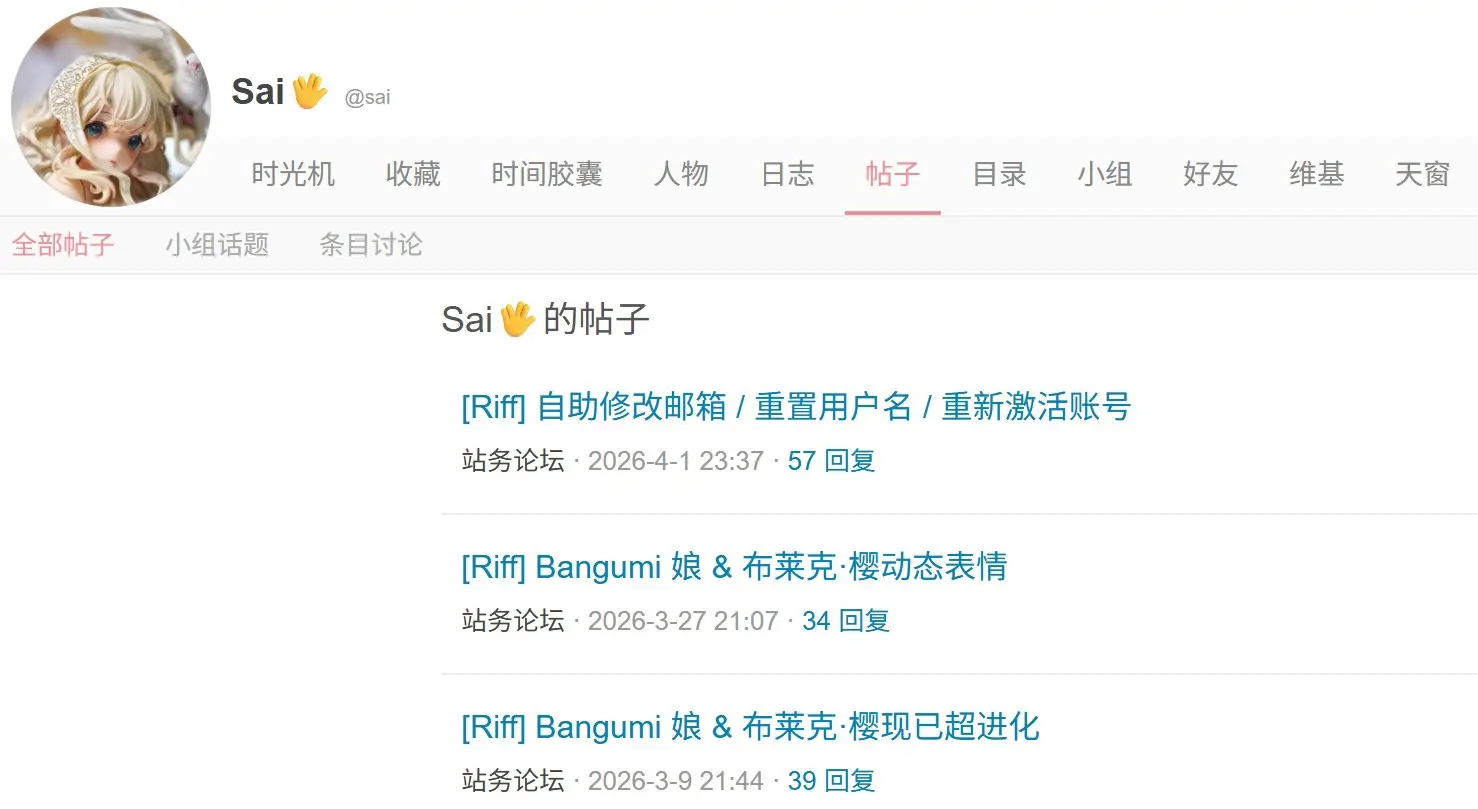
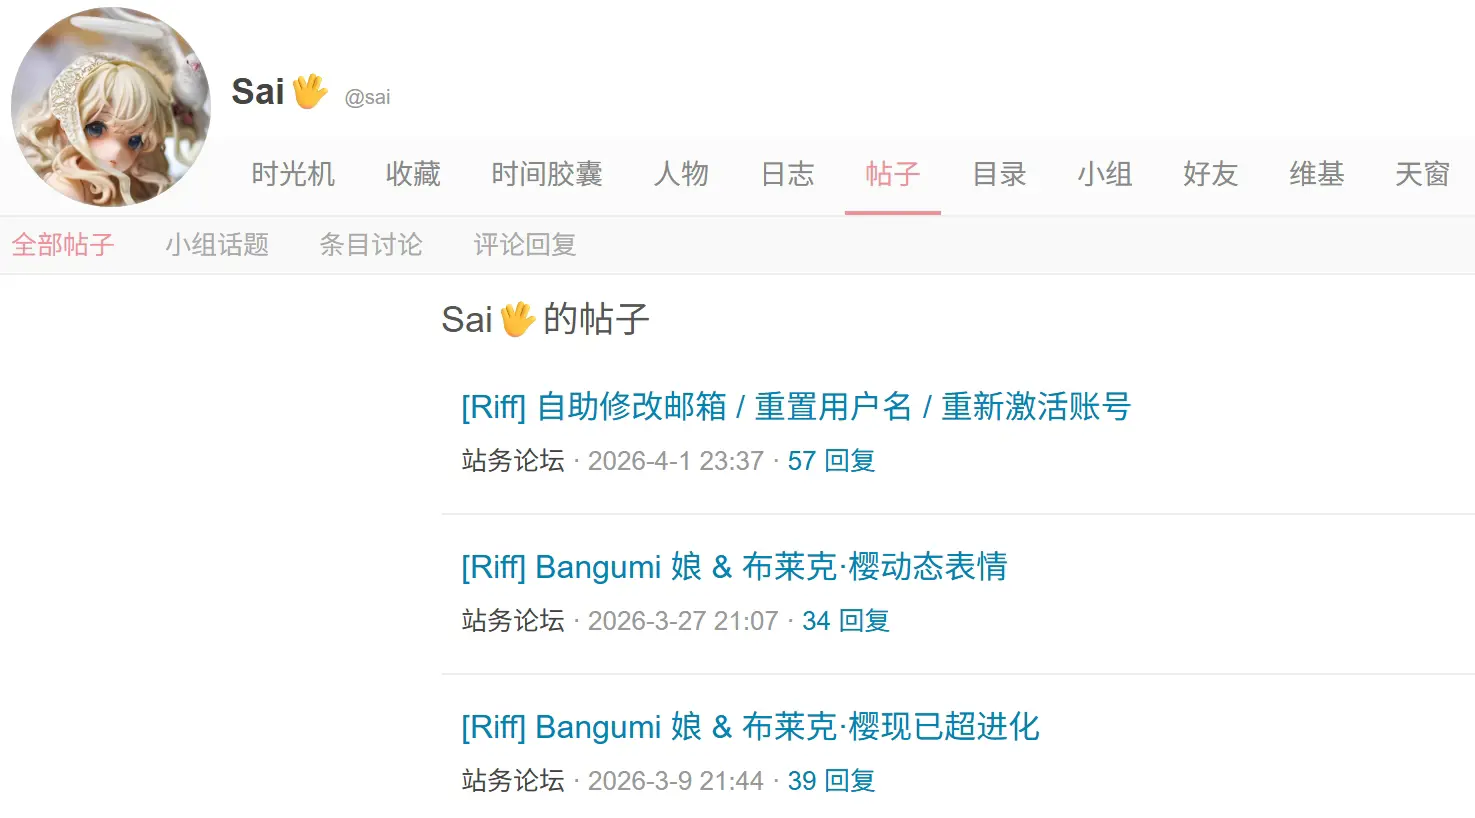
docs: update README.md

diff --git a/README.md b/README.md
@@ -1,6 +1,6 @@
 # Bangumi 用户帖子
 
-在 Bangumi 用户页个人导航中增加“帖子”入口，查看该用户发起的小组话题与条目讨论。
+在 Bangumi 用户页个人导航中增加“帖子”入口，查看该用户发起的小组话题、条目讨论与评论回复。
 
 ## 效果
 
